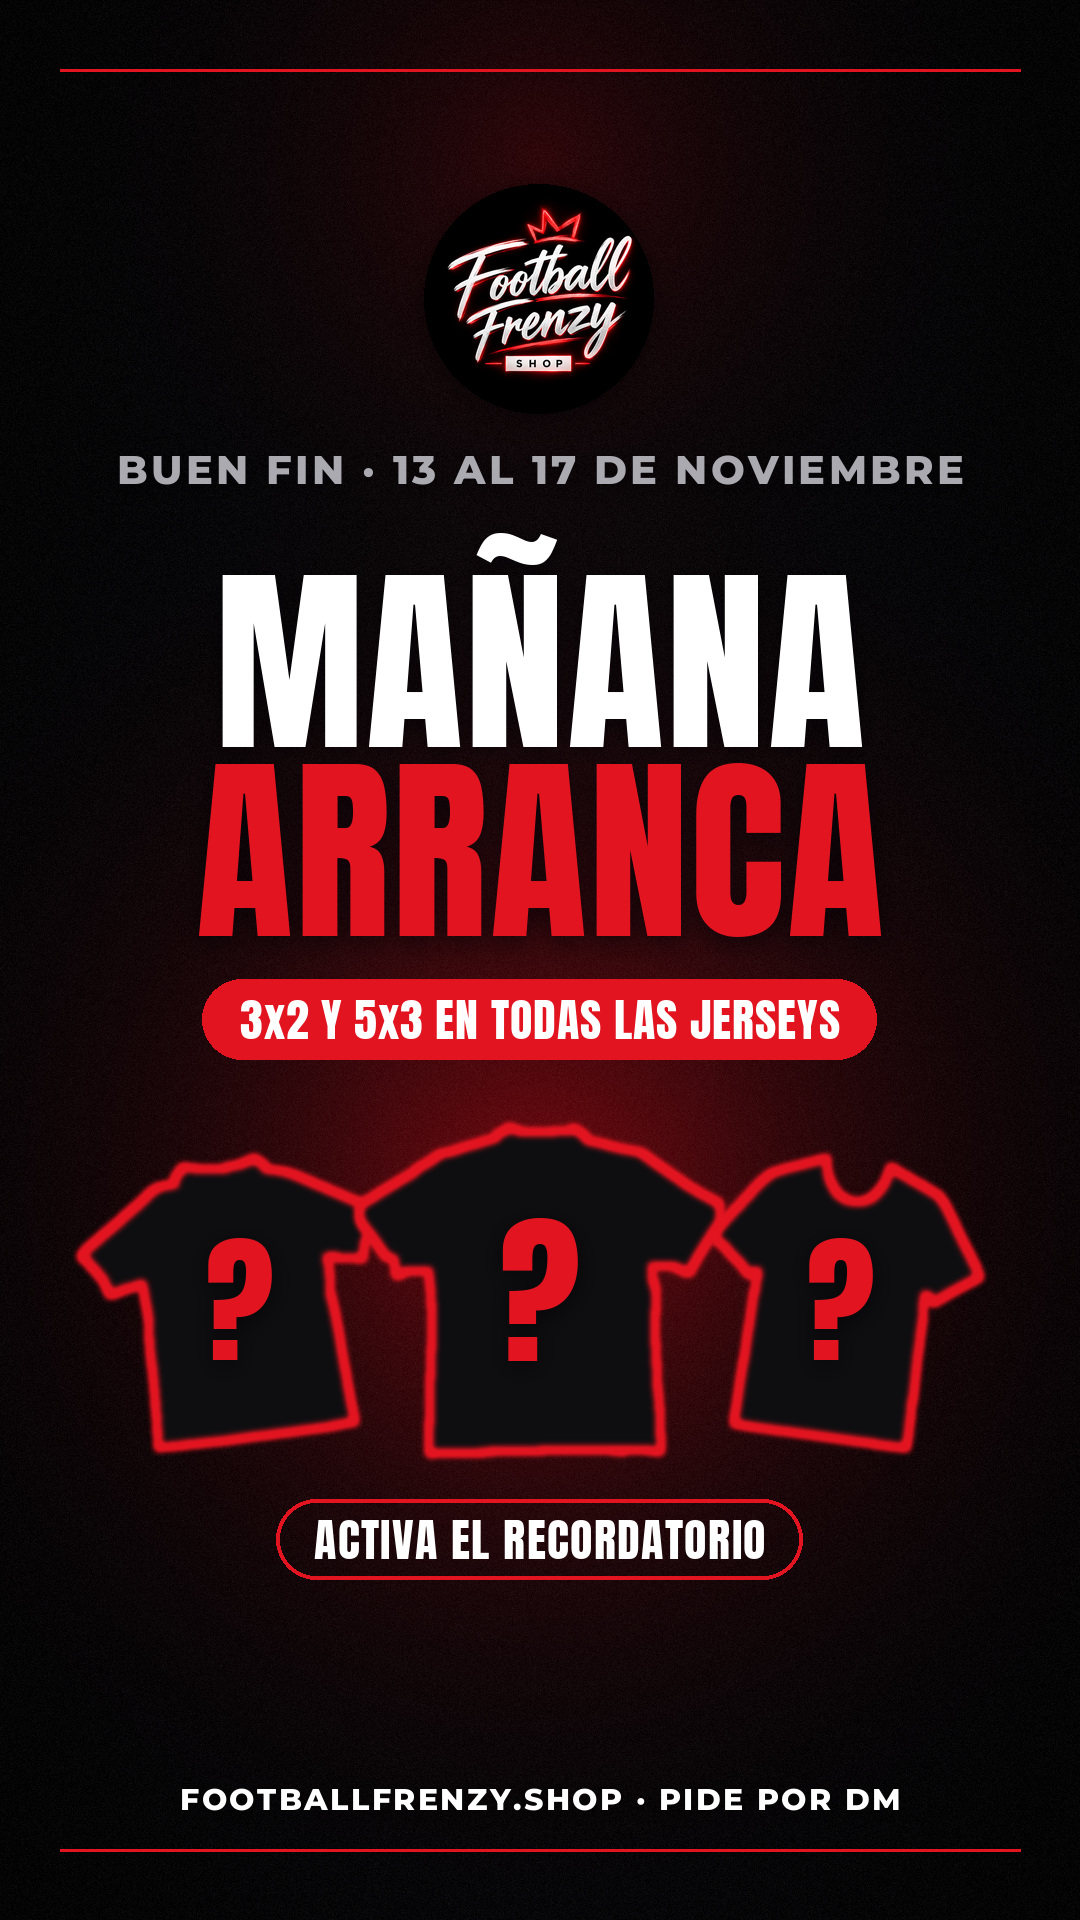
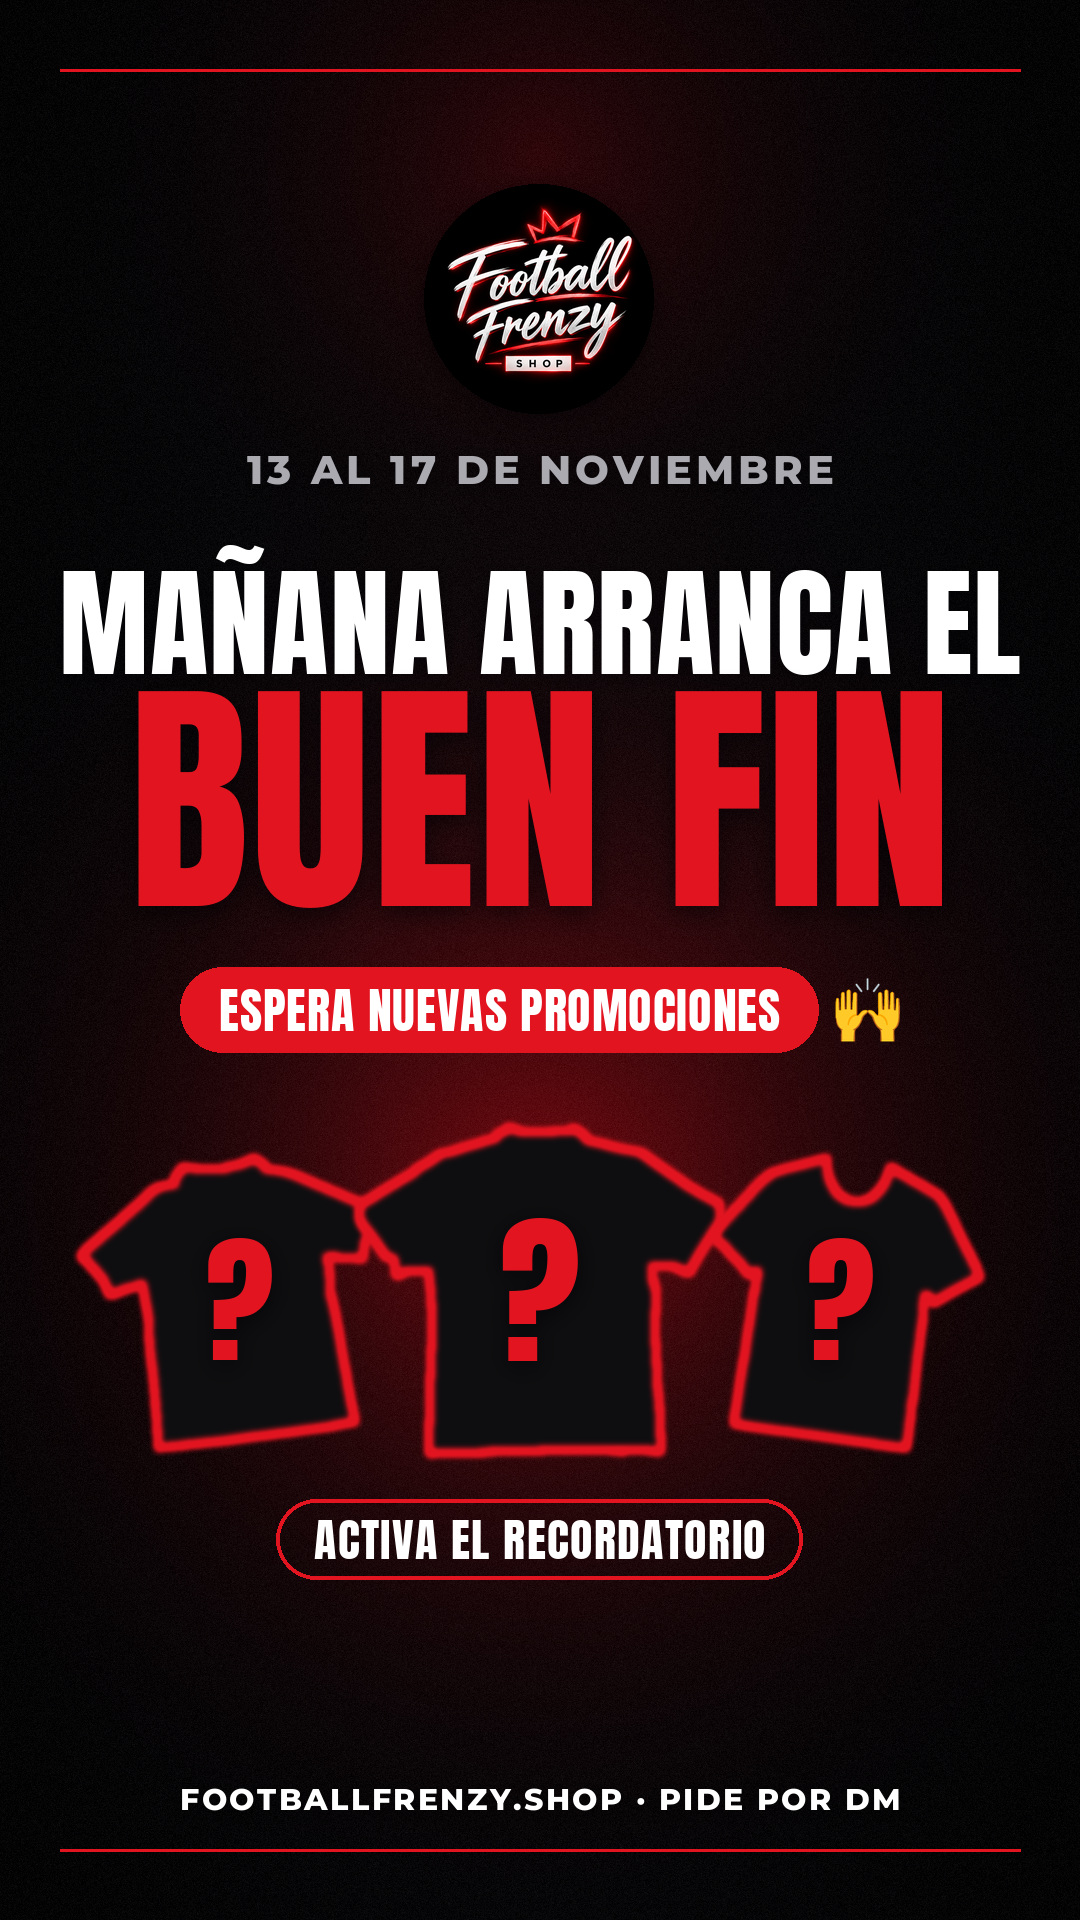
Historia: 'Mañana arranca el Buen Fin · espera nuevas promociones'
Claude-Session: https://claude.ai/code/session_01Y3XEkftw7SELToetvsGNVM

diff --git a/ads/buenfin_dia1_marca.py b/ads/buenfin_dia1_marca.py
@@ -10,6 +10,7 @@ from PIL import Image, ImageDraw, ImageFilter
 import generar_ads as g
 from generar_ads import put, text, ease, back, background, INK
 from hf_ads import badge
+from chat_doctor import emoji
 from buenfin_logo import jersey, shadow
 
 OUT = g.HERE + "out/buenfin_dia1_marca/"
@@ -70,10 +71,15 @@ def mystery(name, h, rot):
 def story():
     c = bg()
     put(c, badge(230), W / 2, 300)
-    put(c, white("BUEN FIN · 13 AL 17 DE NOVIEMBRE", 40, 0.08, "MontB.ttf", GREY), W / 2, 470)
-    put(c, white("MAÑANA", 200, 0.01), W / 2, 640)
-    put(c, red("ARRANCA", 200, 0.01), W / 2, 850)
-    put(c, pill("3x2 Y 5x3 EN TODAS LAS JERSEYS", 46), W / 2, 1020)
+    put(c, white("13 AL 17 DE NOVIEMBRE", 40, 0.1, "MontB.ttf", GREY), W / 2, 470)
+    put(c, white("MAÑANA ARRANCA EL", 120, 0.01), W / 2, 610)
+    put(c, red("BUEN FIN", 250, 0.01), W / 2, 800)
+    pl = pill("ESPERA NUEVAS PROMOCIONES", 48)
+    em = emoji("🙌", 64)
+    row = Image.new("RGBA", (pl.width + 16 + em.width, max(pl.height, em.height)), (0, 0, 0, 0))
+    row.alpha_composite(pl, (0, (row.height - pl.height) // 2))
+    row.alpha_composite(em, (pl.width + 16, (row.height - em.height) // 2))
+    put(c, row, W / 2, 1010)
     for x, n, r, k in ((W / 2 - 300, "encargo/pumas.png", 8, 0.85), (W / 2 + 300, "encargo/tigres.png", -8, 0.85), (W / 2, "encargo/cruzazul.png", 0, 1.0)):
         put(c, mystery(n, int(330 * k), r), x, 1290 + (1 - k) * 60)
     # 1560-1740 free for the countdown sticker
